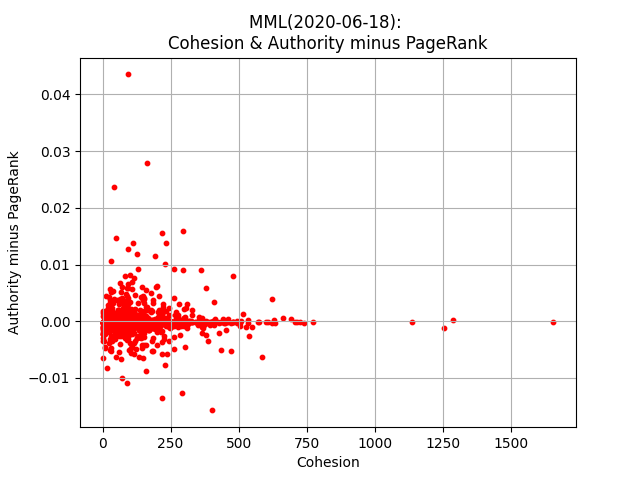
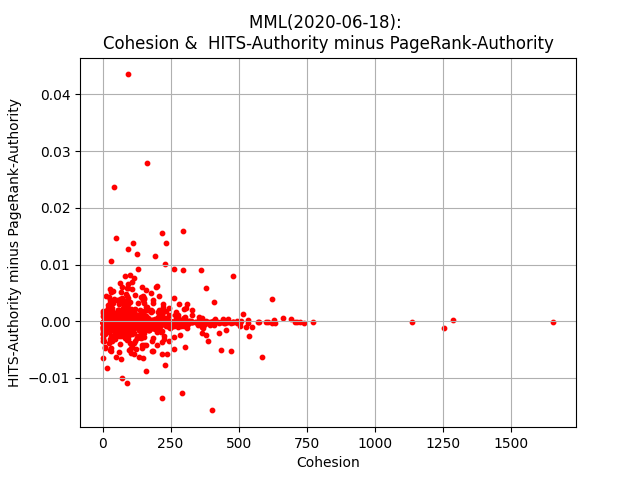
authority->HITS-Authority, PageRank-> PageRank-Aut

Changed region(s): [[0.1562, 0.0625, 0.875, 0.125], [0.0, 0.2188, 0.0312, 0.8125]]

diff --git a/graph/create_table.py b/graph/create_table.py
@@ -235,13 +235,13 @@ def create_scattter_plot_of_number_of_referenced_and_authority_minus_pagerank():
     for k, v in article2number_of_referenced.items():
         x.append(float(v))
         y.append(float(article2authortiy_minus_pagerank[k]))
-        # x: number of referenced, y: authority minus PageRank
+        # x: number of referenced, y:  HITS-Authority minus PageRank-Authority
     
     plt.scatter(x, y, s=10,vmin=0.00, vmax=1.00, c='red')
 
-    plt.title("MML(2020-06-18): number of referenced & authority minus PageRank")
+    plt.title("MML(2020-06-18): number of referenced & HITS-Authority minus PageRank-Authority")
     plt.xlabel("number of referenced")
-    plt.ylabel("Authority minus PageRank")
+    plt.ylabel("HITS-Authority minus HITS-PageRank")
     plt.grid(True)
 
     cwd = os.getcwd()
@@ -264,13 +264,13 @@ def create_scatter_plot_number_of_labels_and_authority_minus_pagerank():
         key = re.sub(r"\.miz", "", k).upper()
         x.append(float(v))
         y.append(float(article2authority_minus_pagerank[key]))
-        # x: number of label y: authority minus PageRank
+        # x: number of label y:  HITS-Authority minus PageRank-Authority
     
     plt.scatter(x, y, s=10,vmin=0.00, vmax=1.00, c='red')
 
-    plt.title("MML(2020-06-18): number of labels & authority minus PageRank")
+    plt.title("MML(2020-06-18): number of labels &  HITS-Authority minus PageRank-Authority")
     plt.xlabel("number of labels")
-    plt.ylabel("Authority minus PageRank")
+    plt.ylabel(" HITS-Authority minus PageRank-Authority")
     plt.grid(True)
 
     cwd = os.getcwd()
@@ -351,13 +351,13 @@ def create_scatter_plot_number_of_theorems_definitions_and_authority_minus_pager
         key = re.sub(r"\.miz", "", k).upper()
         x.append(float(v))
         y.append(float(article2authority_minus_pagerank[key]))
-        # x: number of theorems and defintions y: authority minus PageRank
+        # x: number of theorems and defintions y:  HITS-Authority minus PageRank-Authority
     
     plt.scatter(x, y, s=10,vmin=0.00, vmax=1.00, c='red')
 
-    plt.title("MML(2020-06-18): \nnumber of theorems and definitions & authority minus PageRank")
+    plt.title("MML(2020-06-18): \nnumber of theorems and definitions &  HITS-Authority minus PageRank-Authority")
     plt.xlabel("number of theorems and definitions")
-    plt.ylabel("Authority minus PageRank")
+    plt.ylabel(" HITS-Authority minus PageRank-Authority")
     plt.grid(True)
 
     cwd = os.getcwd()
@@ -438,13 +438,13 @@ def create_scatter_plot_coupling_and_authority_minus_pagerank():
         key = re.sub(r"\.miz", "", k).upper()
         x.append(float(v))
         y.append(float(article2authority_minus_pagerank[key]))
-        # x: coupoing y: Authority minus PageRank
+        # x: coupoing y:  HITS-Authority minus PageRank-Authority
     
     plt.scatter(x, y, s=10,vmin=0.00, vmax=1.00, c='red')
 
-    plt.title("MML(2020-06-18): \nCoupling & Authority minus PageRank")
+    plt.title("MML(2020-06-18): \nCoupling &  HITS-Authority minus PageRank-Authority")
     plt.xlabel("Coupling")
-    plt.ylabel("Authority minus PageRank")
+    plt.ylabel(" HITS-Authority minus PageRank-Authority")
     plt.grid(True)
 
     cwd = os.getcwd()
@@ -471,9 +471,9 @@ def create_scatter_plot_coupling_and_pagerank():
     
     plt.scatter(x, y, s=10,vmin=0.00, vmax=1.00, c='red')
 
-    plt.title("MML(2020-06-18): \nCoupling & PageRank")
+    plt.title("MML(2020-06-18): \nCoupling & PageRank-Authority")
     plt.xlabel("Coupling")
-    plt.ylabel("PageRank")
+    plt.ylabel("PageRank-Authority")
     plt.grid(True)
 
     cwd = os.getcwd()
@@ -500,15 +500,15 @@ def create_scatter_plot_coupling_and_authority():
     
     plt.scatter(x, y, s=10,vmin=0.00, vmax=1.00, c='red')
 
-    plt.title("MML(2020-06-18): \nCoupling & Authority")
+    plt.title("MML(2020-06-18): \nCoupling & HITS-Authority")
     plt.xlabel("Coupling")
-    plt.ylabel("Authority")
+    plt.ylabel("HITS-Authority")
     plt.grid(True)
 
     cwd = os.getcwd()
     try:
         os.chdir("research_data/scatter_plots")
-        fig.savefig("MML(2020-06-18)_coupling-Authority.png")
+        fig.savefig("MML(2020-06-18)_coupling_and_HITS-Authority.png")
 
     finally:
         os.chdir(cwd)
@@ -525,13 +525,13 @@ def create_scatter_plot_cohesion_and_authority_minus_pagerank():
         key = re.sub(r"\.miz", "", k).upper()
         x.append(float(v))
         y.append(float(article2authority_minus_pagerank[key]))
-        # x: coupoing y: Authority minus PageRank
+        # x: coupoing y:  HITS-Authority minus PageRank-Authority
     
     plt.scatter(x, y, s=10,vmin=0.00, vmax=1.00, c='red')
 
-    plt.title("MML(2020-06-18): \nCohesion & Authority minus PageRank")
+    plt.title("MML(2020-06-18): \nCohesion &  HITS-Authority minus PageRank-Authority")
     plt.xlabel("Cohesion")
-    plt.ylabel("Authority minus PageRank")
+    plt.ylabel("HITS-Authority minus PageRank-Authority")
     plt.grid(True)
 
     cwd = os.getcwd()
@@ -558,9 +558,9 @@ def create_scatter_plot_cohesion_and_pagerank():
     
     plt.scatter(x, y, s=10,vmin=0.00, vmax=1.00, c='red')
 
-    plt.title("MML(2020-06-18): \nCohesion & PageRank")
+    plt.title("MML(2020-06-18): \nCohesion & PageRank-Authority")
     plt.xlabel("Cohesion")
-    plt.ylabel("PageRank")
+    plt.ylabel("PageRank-Authorituy")
     plt.grid(True)
 
     cwd = os.getcwd()
@@ -587,15 +587,15 @@ def create_scatter_plot_cohesion_and_authority():
     
     plt.scatter(x, y, s=10,vmin=0.00, vmax=1.00, c='red')
 
-    plt.title("MML(2020-06-18): \nCohesion & Authority")
+    plt.title("MML(2020-06-18): \nCohesion & HITS-Authority")
     plt.xlabel("Cohesion")
-    plt.ylabel("Authority")
+    plt.ylabel("HITS-Authority")
     plt.grid(True)
 
     cwd = os.getcwd()
     try:
         os.chdir("research_data/scatter_plots")
-        fig.savefig("MML(2020-06-18)_cohesion-Authority.png")
+        fig.savefig("MML(2020-06-18)_cohesion_and_HITS-Authority.png")
 
     finally:
         os.chdir(cwd)
